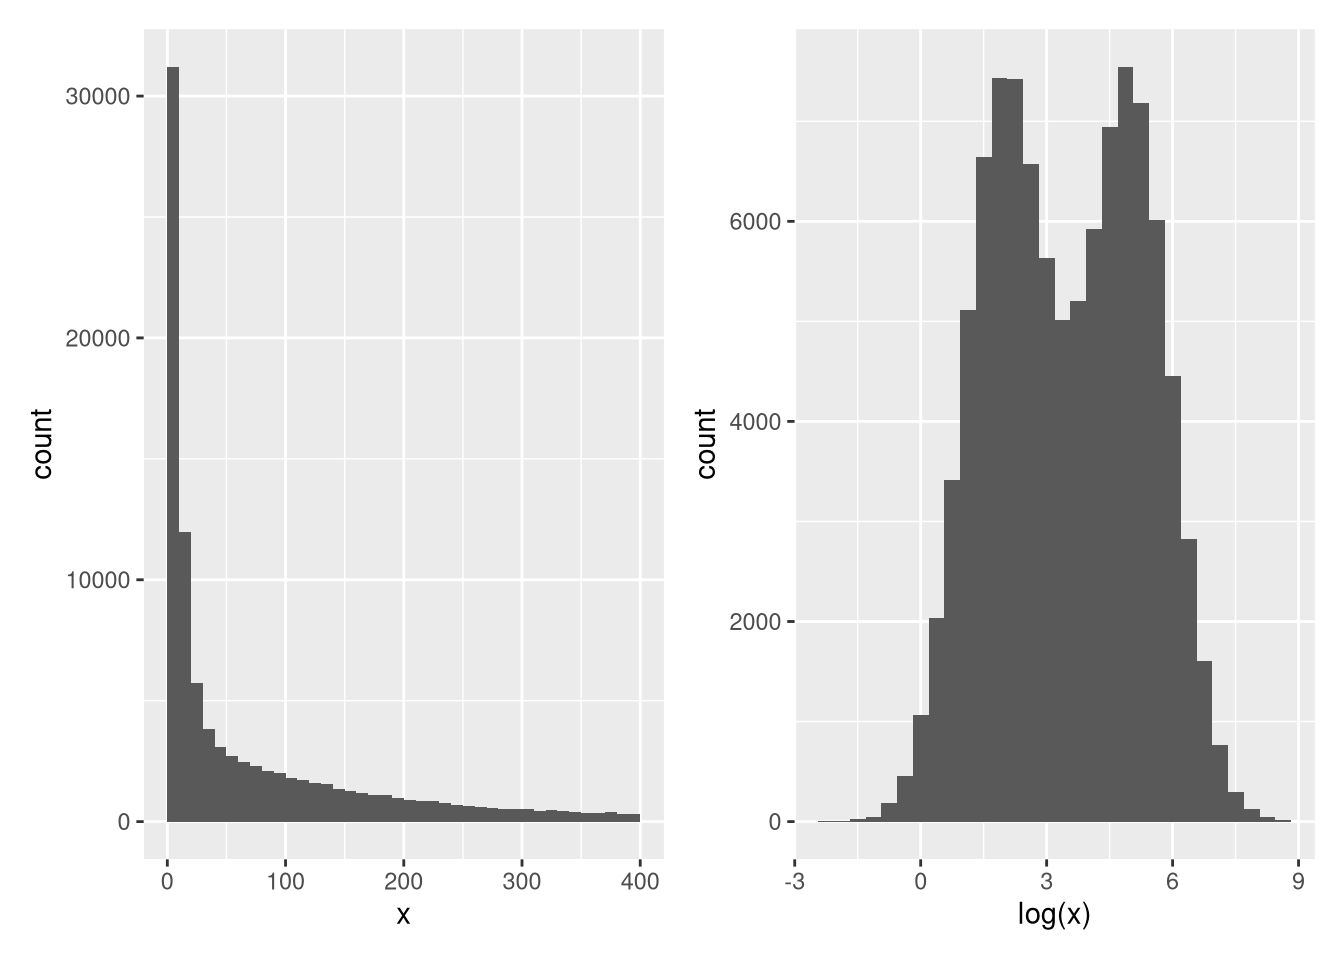
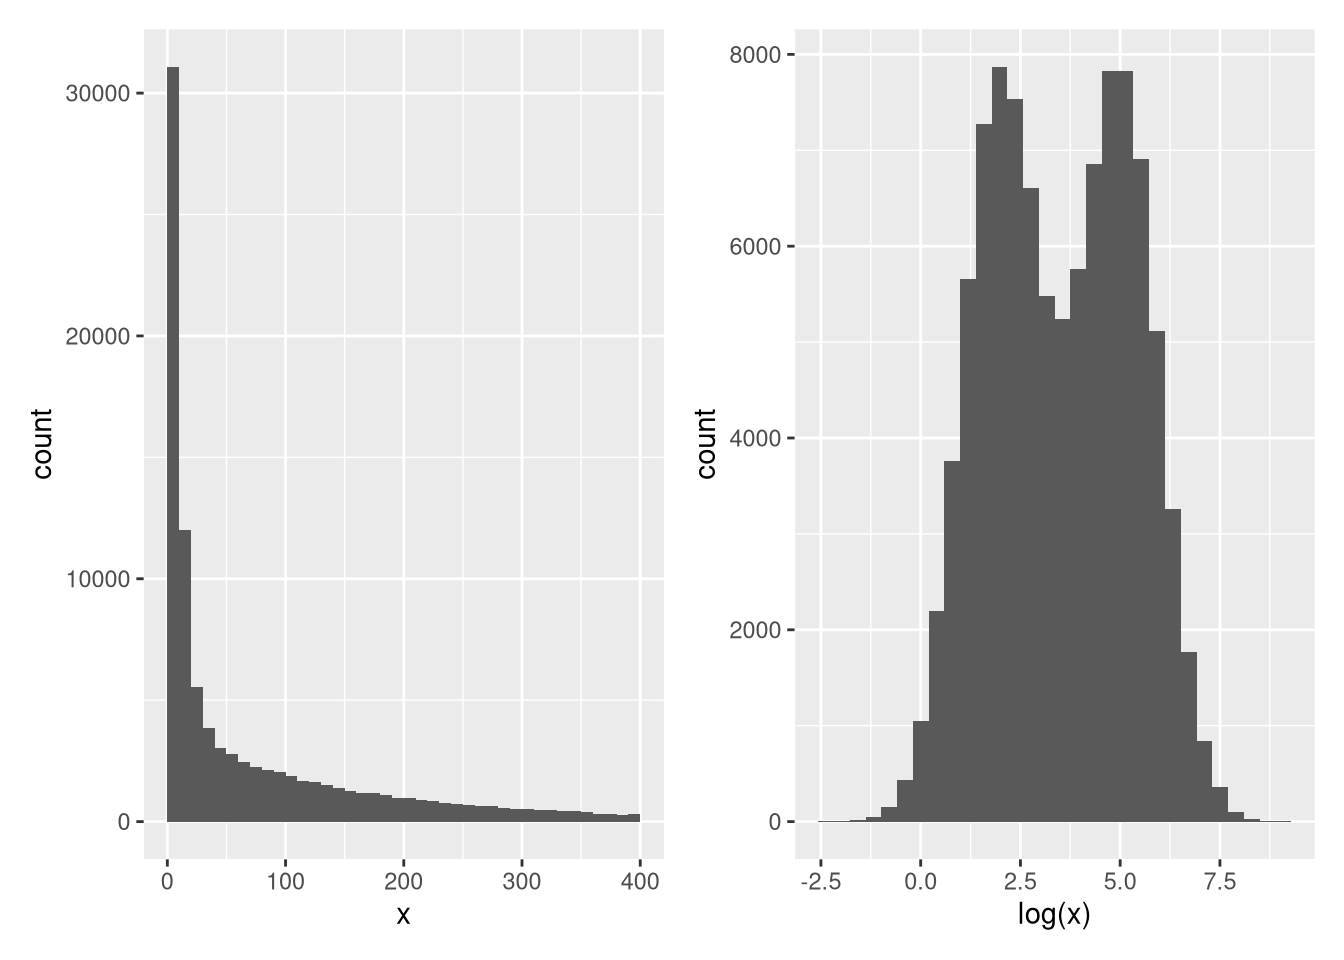
rebuild book

diff --git a/docs/sec-si.html b/docs/sec-si.html
@@ -14,7 +14,7 @@
 
 <meta name="author" content="Laurent Gatto" />
 
-<meta name="date" content="2021-09-20" />
+<meta name="date" content="2021-10-03" />
 
 <script type="text/x-mathjax-config">
 MathJax.Hub.Config({
@@ -229,7 +229,7 @@ div.csl-indent {
 ## other attached packages:
 ##  [1] UpSetR_1.4.0                          Vennerable_3.1.0.9000                
 ##  [3] ComplexHeatmap_2.9.4                  class_7.3-19                         
-##  [5] pRoloc_1.33.0                         BiocParallel_1.27.7                  
+##  [5] pRoloc_1.33.0                         BiocParallel_1.27.10                 
 ##  [7] MLInterfaces_1.73.0                   cluster_2.1.2                        
 ##  [9] annotate_1.71.0                       XML_3.99-0.8                         
 ## [11] AnnotationDbi_1.55.1                  bioDist_1.65.0                       
@@ -240,16 +240,16 @@ div.csl-indent {
 ## [21] MultiAssayExperiment_1.19.12          BSgenome.Dmelanogaster.UCSC.dm2_1.4.0
 ## [23] BSgenome_1.61.0                       rtracklayer_1.53.1                   
 ## [25] Biostrings_2.61.2                     XVector_0.33.0                       
-## [27] rWSBIM1207_0.1.14                     airway_1.13.0                        
+## [27] rWSBIM1207_0.1.15                     airway_1.13.0                        
 ## [29] SummarizedExperiment_1.23.4           Biobase_2.53.0                       
 ## [31] GenomicRanges_1.45.0                  GenomeInfoDb_1.29.8                  
-## [33] IRanges_2.27.2                        S4Vectors_0.31.3                     
+## [33] IRanges_2.27.2                        S4Vectors_0.31.4                     
 ## [35] BiocGenerics_0.39.2                   MatrixGenerics_1.5.4                 
-## [37] matrixStats_0.60.1                    BiocStyle_2.21.3                     
+## [37] matrixStats_0.61.0                    BiocStyle_2.21.3                     
 ## [39] patchwork_1.1.1                       ggbeeswarm_0.6.0                     
 ## [41] plotly_4.9.4.1                        Hmisc_4.5-0                          
-## [43] Formula_1.2-4                         survival_3.2-11                      
-## [45] lattice_0.20-44                       forcats_0.5.1                        
+## [43] Formula_1.2-4                         survival_3.2-13                      
+## [45] lattice_0.20-45                       forcats_0.5.1                        
 ## [47] stringr_1.4.0                         dplyr_1.0.7                          
 ## [49] purrr_0.3.4                           readr_2.0.1                          
 ## [51] tidyr_1.1.3                           tibble_3.1.4                         
@@ -258,14 +258,14 @@ div.csl-indent {
 ## 
 ## loaded via a namespace (and not attached):
 ##   [1] rappdirs_0.3.3           ModelMetrics_1.2.2.2     coda_0.19-4             
-##   [4] bit64_4.0.5              knitr_1.34               DelayedArray_0.19.3     
+##   [4] bit64_4.0.5              knitr_1.34               DelayedArray_0.19.4     
 ##   [7] data.table_1.14.0        rpart_4.1-15             KEGGREST_1.33.0         
 ##  [10] RCurl_1.98-1.5           AnnotationFilter_1.17.1  doParallel_1.0.16       
 ##  [13] generics_0.1.0           preprocessCore_1.55.2    RSQLite_2.2.8           
 ##  [16] future_1.22.1            proxy_0.4-26             bit_4.0.4               
 ##  [19] tzdb_0.1.2               xml2_1.3.2               lubridate_1.7.10        
 ##  [22] assertthat_0.2.1         isoband_0.2.5            viridis_0.6.1           
-##  [25] gower_0.2.2              xfun_0.26                hms_1.1.0               
+##  [25] gower_0.2.2              xfun_0.26                hms_1.1.1               
 ##  [28] jquerylib_0.1.4          evaluate_0.14            fansi_0.5.0             
 ##  [31] restfulr_0.0.13          progress_1.2.2           dendextend_1.15.1       
 ##  [34] dbplyr_2.1.1             readxl_1.3.1             igraph_1.2.6            
@@ -276,10 +276,10 @@ div.csl-indent {
 ##  [49] withr_2.4.2              msmbstyle_0.0.19         vroom_1.5.5             
 ##  [52] checkmate_2.0.0          GenomicAlignments_1.29.0 prettyunits_1.1.1       
 ##  [55] mclust_5.4.7             segmented_1.3-4          lazyeval_0.2.2          
-##  [58] crayon_1.4.1             recipes_0.1.16           pkgconfig_2.0.3         
-##  [61] labeling_0.4.2           nlme_3.1-152             vipor_0.4.5             
+##  [58] crayon_1.4.1             recipes_0.1.17           pkgconfig_2.0.3         
+##  [61] labeling_0.4.2           nlme_3.1-153             vipor_0.4.5             
 ##  [64] nnet_7.3-16              globals_0.14.0           rlang_0.4.11            
-##  [67] lifecycle_1.0.0          LaplacesDemon_16.1.6     filelock_1.0.2          
+##  [67] lifecycle_1.0.1          LaplacesDemon_16.1.6     filelock_1.0.2          
 ##  [70] affyio_1.63.2            BiocFileCache_2.1.1      modelr_0.1.8            
 ##  [73] randomForest_4.6-14      cellranger_1.1.0         graph_1.71.2            
 ##  [76] Matrix_1.3-4             carData_3.0-4            reprex_2.0.1            
@@ -322,7 +322,7 @@ the following code:</p>
 <a href="sec-ccl.html"><button class="btn btn-default">Previous</button></a>
 </p>
 <p class="build-date">Page built: 
-2021-09-20
+2021-10-03
  using 
 R version 4.1.0 (2021-05-18)
 </p>

diff --git a/docs/sec-vis.html b/docs/sec-vis.html
@@ -14,7 +14,7 @@
 
 <meta name="author" content="Laurent Gatto" />
 
-<meta name="date" content="2021-09-20" />
+<meta name="date" content="2021-10-03" />
 
 <script type="text/x-mathjax-config">
 MathJax.Hub.Config({
@@ -920,7 +920,7 @@ of the data.</p>
 <span id="cb37-9"><a href="sec-vis.html#cb37-9" aria-hidden="true" tabindex="-1"></a>p2 <span class="ot">&lt;-</span>  <span class="fu">ggplot</span>(sim, <span class="fu">aes</span>(<span class="fu">log</span>(x))) <span class="sc">+</span></span>
 <span id="cb37-10"><a href="sec-vis.html#cb37-10" aria-hidden="true" tabindex="-1"></a>    <span class="fu">geom_histogram</span>(<span class="at">bins =</span> <span class="dv">30</span>)</span>
 <span id="cb37-11"><a href="sec-vis.html#cb37-11" aria-hidden="true" tabindex="-1"></a>p1 <span class="sc">+</span> p2</span></code></pre></div>
-<pre><code>## Warning: Removed 7891 rows containing non-finite values (stat_bin).</code></pre>
+<pre><code>## Warning: Removed 7904 rows containing non-finite values (stat_bin).</code></pre>
 <div class="figure">
 <span style="display:block;" id="fig:sim"></span>
 <p class="caption marginnote shownote">
@@ -1166,7 +1166,7 @@ otherwise. Below are some example outputs.</p>
 <a href="sec-obj.html"><button class="btn btn-default">Next</button></a>
 </p>
 <p class="build-date">Page built: 
-2021-09-20
+2021-10-03
  using 
 R version 4.1.0 (2021-05-18)
 </p>

diff --git a/docs/sec-refresher.html b/docs/sec-refresher.html
@@ -14,7 +14,7 @@
 
 <meta name="author" content="Laurent Gatto" />
 
-<meta name="date" content="2021-09-20" />
+<meta name="date" content="2021-10-03" />
 
 <script type="text/x-mathjax-config">
 MathJax.Hub.Config({
@@ -352,7 +352,13 @@ tests.</li>
 <li>Calculate this average score for the 10 students.</li>
 </ul>
 <p>This can be done using the <code>apply</code> function or using <code>dplyr</code>
-functions. For the latter, see <code>rowwise()</code></p>
+functions. For the latter, see also <code>rowwise()</code>.</p>
+<p>Note that the situation of students that have only presented 3 out of
+4 tests (i.e they have a <code>NA</code> for one test). It is up to you to decide
+whether you simply take the mean of the 3, or whether you prefer to
+drop the worst of 3 and calculate the mean of the 2 best marks. Make
+sure you are aware of what your implementation returns and, ideally,
+state it explicitly in your response.</p>
 <p class="question-end">
 <span class="fa fa-square-o solution-icon"></span>
 </p>
@@ -367,7 +373,7 @@ functions. For the latter, see <code>rowwise()</code></p>
 <a href="sec-vis.html"><button class="btn btn-default">Next</button></a>
 </p>
 <p class="build-date">Page built: 
-2021-09-20
+2021-10-03
  using 
 R version 4.1.0 (2021-05-18)
 </p>

diff --git a/docs/index.html b/docs/index.html
@@ -14,7 +14,7 @@
 
 <meta name="author" content="Laurent Gatto" />
 
-<meta name="date" content="2021-09-20" />
+<meta name="date" content="2021-10-03" />
 
 <script type="text/x-mathjax-config">
 MathJax.Hub.Config({
@@ -340,7 +340,7 @@ style</a> <span class="citation">(<label for="tufte-mn-10" class="margin-toggle"
 <a href="sec-refresher.html"><button class="btn btn-default">Next</button></a>
 </p>
 <p class="build-date">Page built: 
-2021-09-20
+2021-10-03
  using 
 R version 4.1.0 (2021-05-18)
 </p>

diff --git a/docs/sec-sl.html b/docs/sec-sl.html
@@ -14,7 +14,7 @@
 
 <meta name="author" content="Laurent Gatto" />
 
-<meta name="date" content="2021-09-20" />
+<meta name="date" content="2021-10-03" />
 
 <script type="text/x-mathjax-config">
 MathJax.Hub.Config({
@@ -1054,7 +1054,7 @@ most reliable assignments one, and setting the unreliable ones to
 <a href="sec-biovis.html"><button class="btn btn-default">Next</button></a>
 </p>
 <p class="build-date">Page built: 
-2021-09-20
+2021-10-03
  using 
 R version 4.1.0 (2021-05-18)
 </p>

diff --git a/docs/sec-biovis.html b/docs/sec-biovis.html
@@ -14,7 +14,7 @@
 
 <meta name="author" content="Laurent Gatto" />
 
-<meta name="date" content="2021-09-20" />
+<meta name="date" content="2021-10-03" />
 
 <script type="text/x-mathjax-config">
 MathJax.Hub.Config({
@@ -487,7 +487,7 @@ number of intersectios (default is 40) become useful.</p>
 <a href="sec-ccl.html"><button class="btn btn-default">Next</button></a>
 </p>
 <p class="build-date">Page built: 
-2021-09-20
+2021-10-03
  using 
 R version 4.1.0 (2021-05-18)
 </p>

diff --git a/docs/sec-mlintro.html b/docs/sec-mlintro.html
@@ -14,7 +14,7 @@
 
 <meta name="author" content="Laurent Gatto" />
 
-<meta name="date" content="2021-09-20" />
+<meta name="date" content="2021-10-03" />
 
 <script type="text/x-mathjax-config">
 MathJax.Hub.Config({
@@ -762,7 +762,7 @@ but these are beyond the scope of this course.</p>
 <a href="sec-testing.html"><button class="btn btn-default">Next</button></a>
 </p>
 <p class="build-date">Page built: 
-2021-09-20
+2021-10-03
  using 
 R version 4.1.0 (2021-05-18)
 </p>

diff --git a/docs/sec-obj.html b/docs/sec-obj.html
@@ -14,7 +14,7 @@
 
 <meta name="author" content="Laurent Gatto" />
 
-<meta name="date" content="2021-09-20" />
+<meta name="date" content="2021-10-03" />
 
 <script type="text/x-mathjax-config">
 MathJax.Hub.Config({
@@ -995,7 +995,7 @@ of class <code>SummarizedExperiment</code>.</p>
 <a href="sec-biostrings.html"><button class="btn btn-default">Next</button></a>
 </p>
 <p class="build-date">Page built: 
-2021-09-20
+2021-10-03
  using 
 R version 4.1.0 (2021-05-18)
 </p>

diff --git a/docs/sec-ul.html b/docs/sec-ul.html
@@ -14,7 +14,7 @@
 
 <meta name="author" content="Laurent Gatto" />
 
-<meta name="date" content="2021-09-20" />
+<meta name="date" content="2021-10-03" />
 
 <script type="text/x-mathjax-config">
 MathJax.Hub.Config({
@@ -996,7 +996,7 @@ average marker profiles, such as shown below.</p></li>
 <a href="sec-sl.html"><button class="btn btn-default">Next</button></a>
 </p>
 <p class="build-date">Page built: 
-2021-09-20
+2021-10-03
  using 
 R version 4.1.0 (2021-05-18)
 </p>

diff --git a/docs/sec-norm.html b/docs/sec-norm.html
@@ -14,7 +14,7 @@
 
 <meta name="author" content="Laurent Gatto" />
 
-<meta name="date" content="2021-09-20" />
+<meta name="date" content="2021-10-03" />
 
 <script type="text/x-mathjax-config">
 MathJax.Hub.Config({
@@ -716,7 +716,7 @@ implications for the normalisation step?</p>
 <a href="sec-mlintro.html"><button class="btn btn-default">Next</button></a>
 </p>
 <p class="build-date">Page built: 
-2021-09-20
+2021-10-03
  using 
 R version 4.1.0 (2021-05-18)
 </p>

diff --git a/docs/sec-testing.html b/docs/sec-testing.html
@@ -14,7 +14,7 @@
 
 <meta name="author" content="Laurent Gatto" />
 
-<meta name="date" content="2021-09-20" />
+<meta name="date" content="2021-10-03" />
 
 <script type="text/x-mathjax-config">
 MathJax.Hub.Config({
@@ -1129,7 +1129,7 @@ conclusion now?</li>
 <a href="sec-dimred.html"><button class="btn btn-default">Next</button></a>
 </p>
 <p class="build-date">Page built: 
-2021-09-20
+2021-10-03
  using 
 R version 4.1.0 (2021-05-18)
 </p>

diff --git a/docs/404.html b/docs/404.html
@@ -14,7 +14,7 @@
 
 <meta name="author" content="Laurent Gatto" />
 
-<meta name="date" content="2021-09-20" />
+<meta name="date" content="2021-10-03" />
 
 <script type="text/x-mathjax-config">
 MathJax.Hub.Config({
@@ -209,7 +209,7 @@ the table of contents to find the page you are looking for.</p>
 <p style="text-align: center;">
 </p>
 <p class="build-date">Page built: 
-2021-09-20
+2021-10-03
  using 
 R version 4.1.0 (2021-05-18)
 </p>
